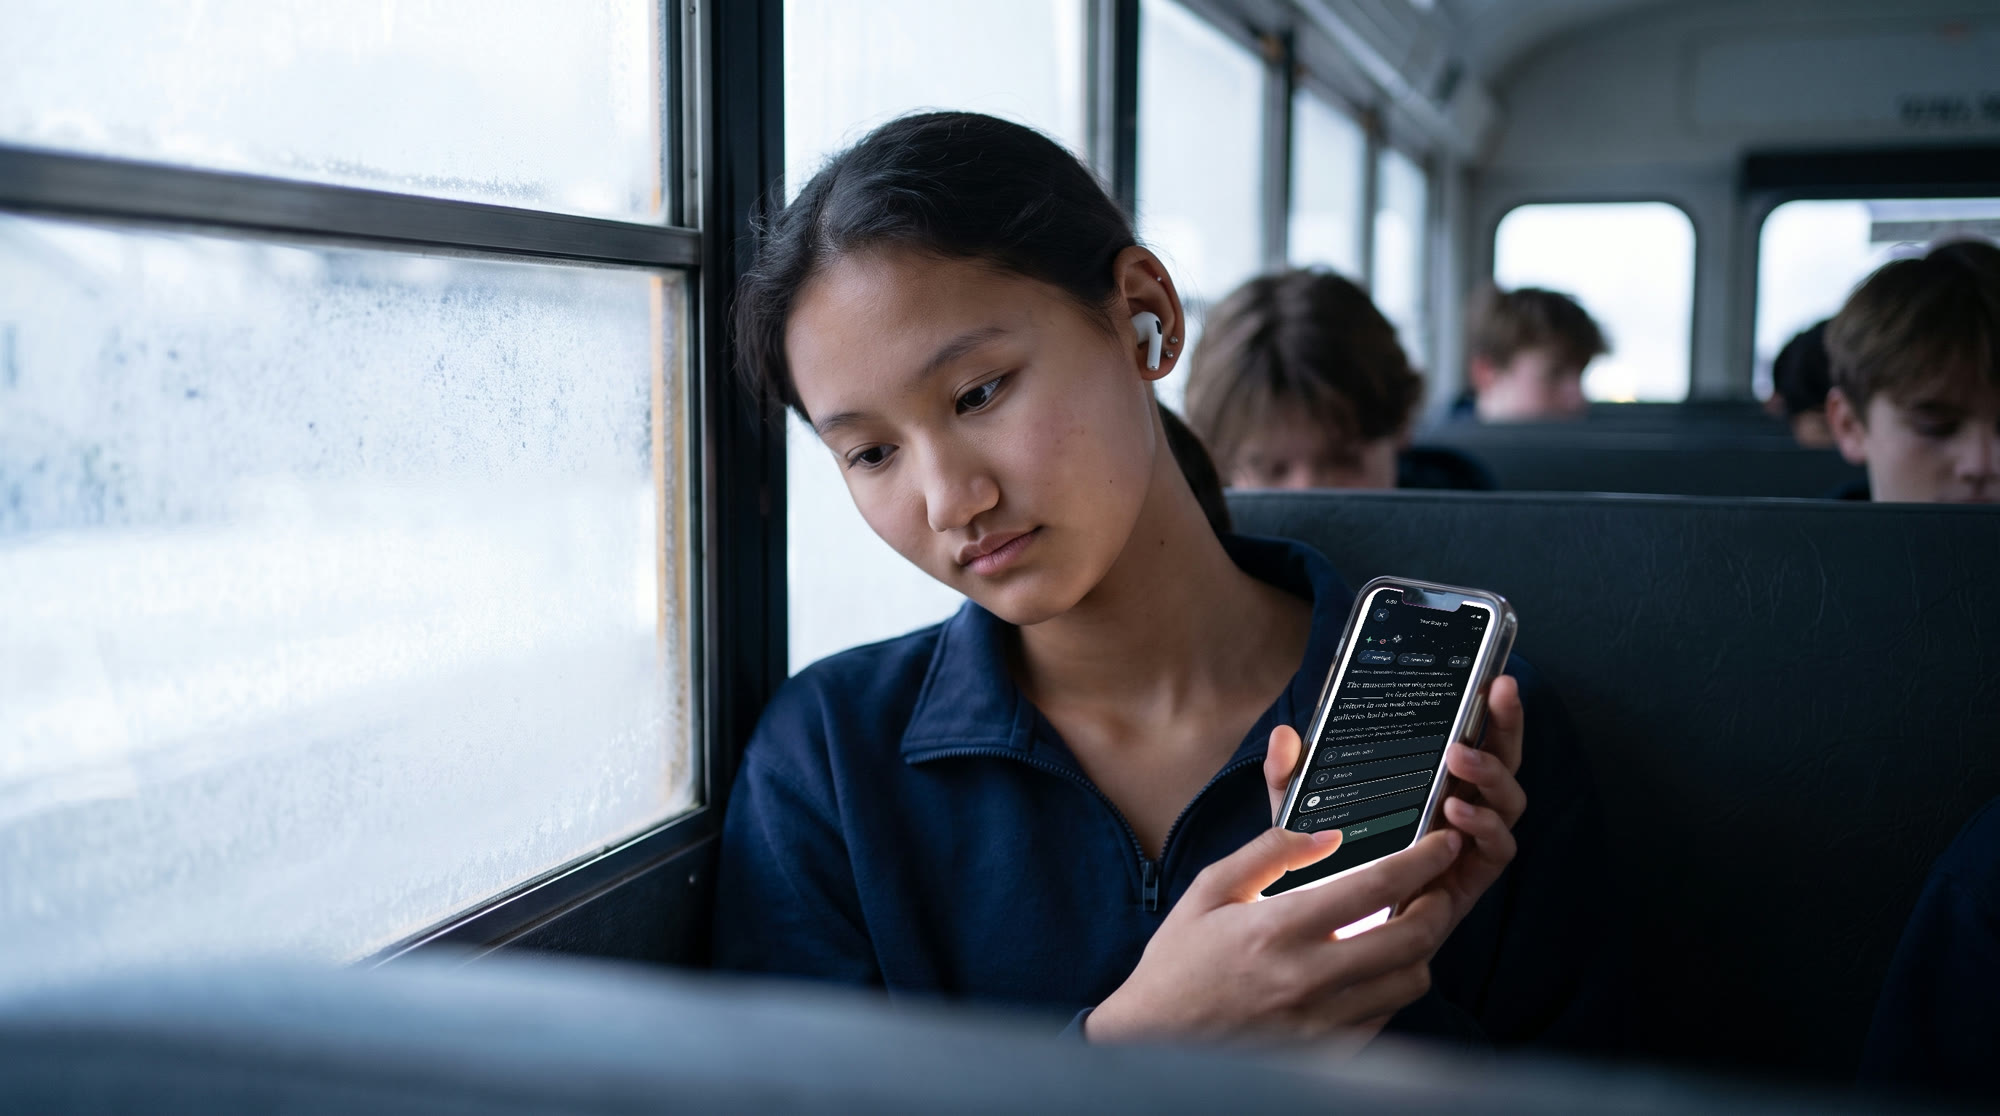
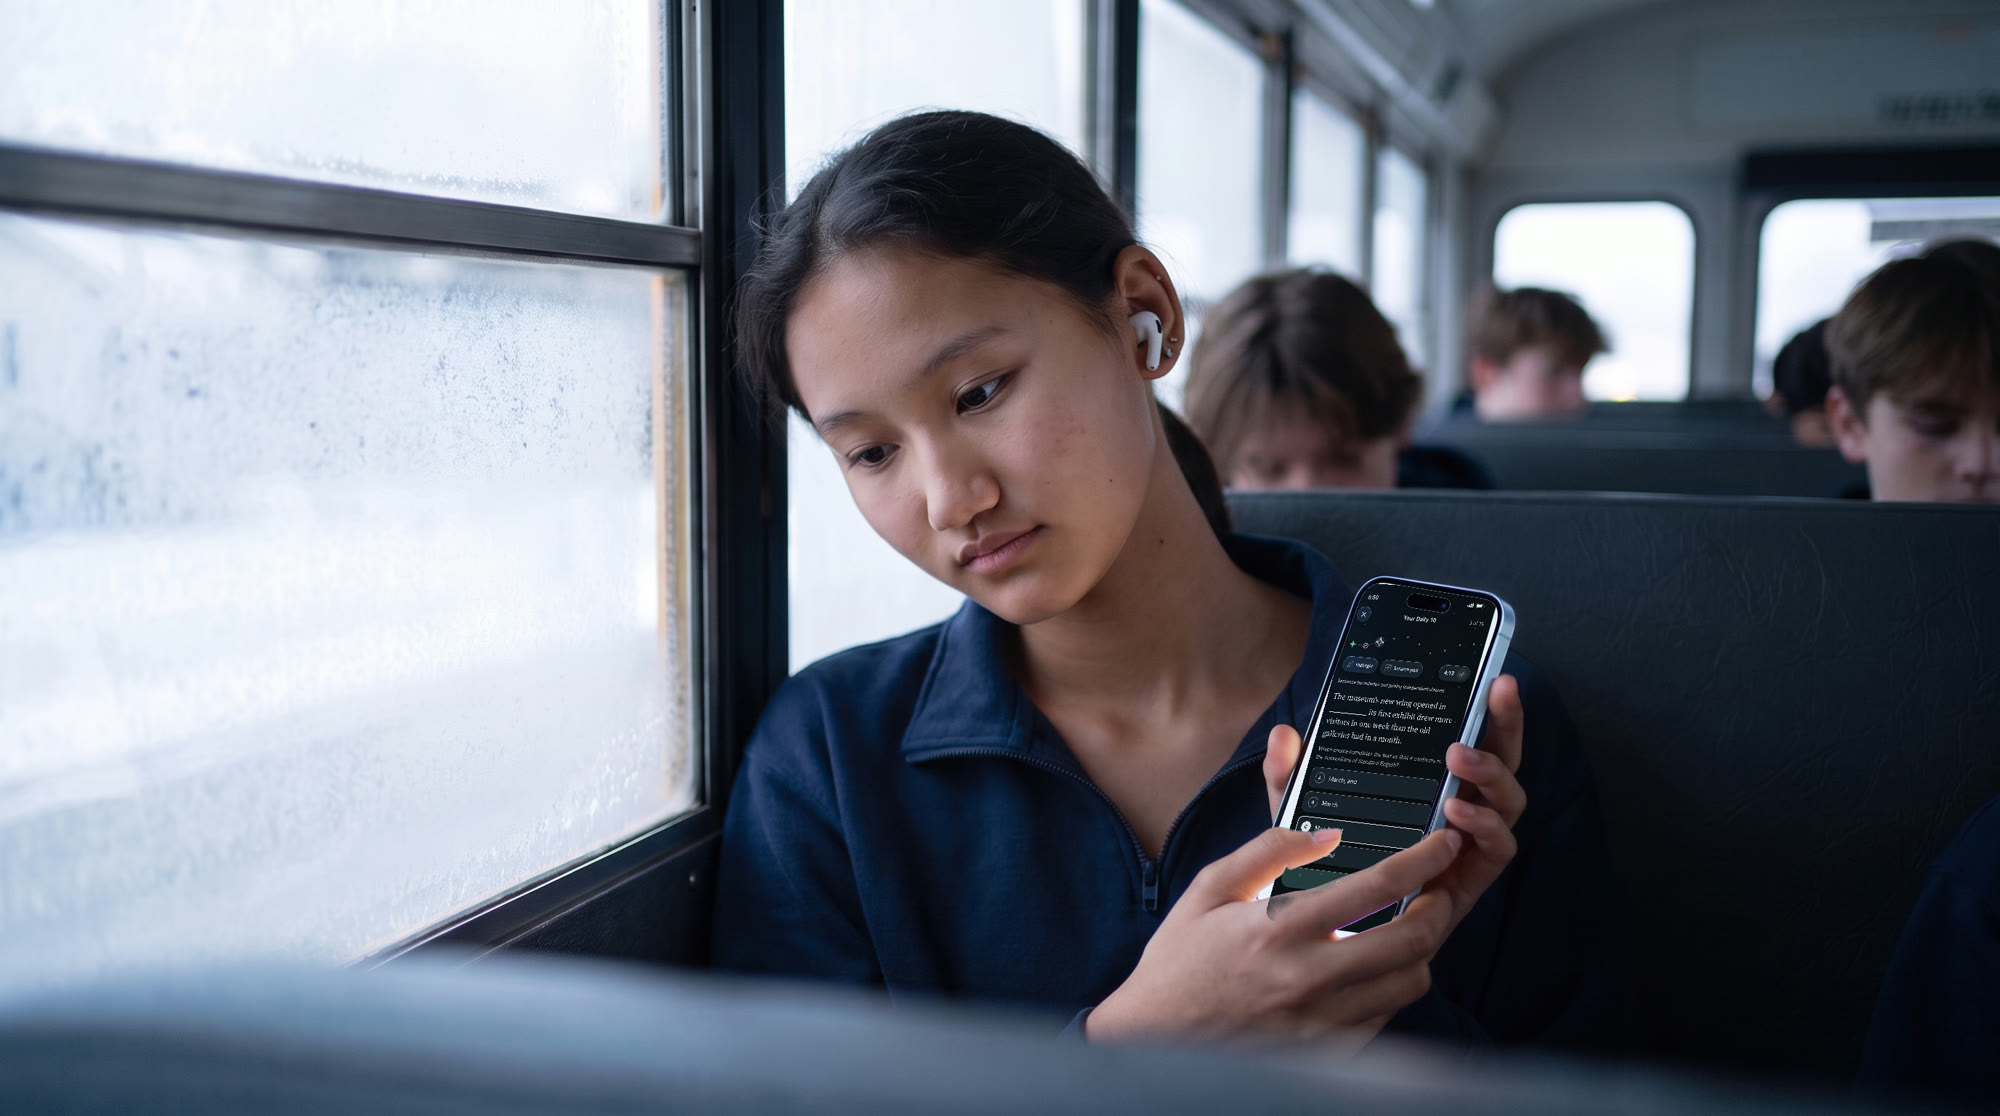
Photography: iPhone 18 Pro Max phones, screens refitted on all ten shots

diff --git a/.impeccable/mocks/decision/hf-shots/blank.html b/.impeccable/mocks/decision/hf-shots/blank.html
@@ -1,0 +1,1 @@
+<!doctype html><meta charset="utf-8"><title>compose</title><body style="margin:0"></body>
